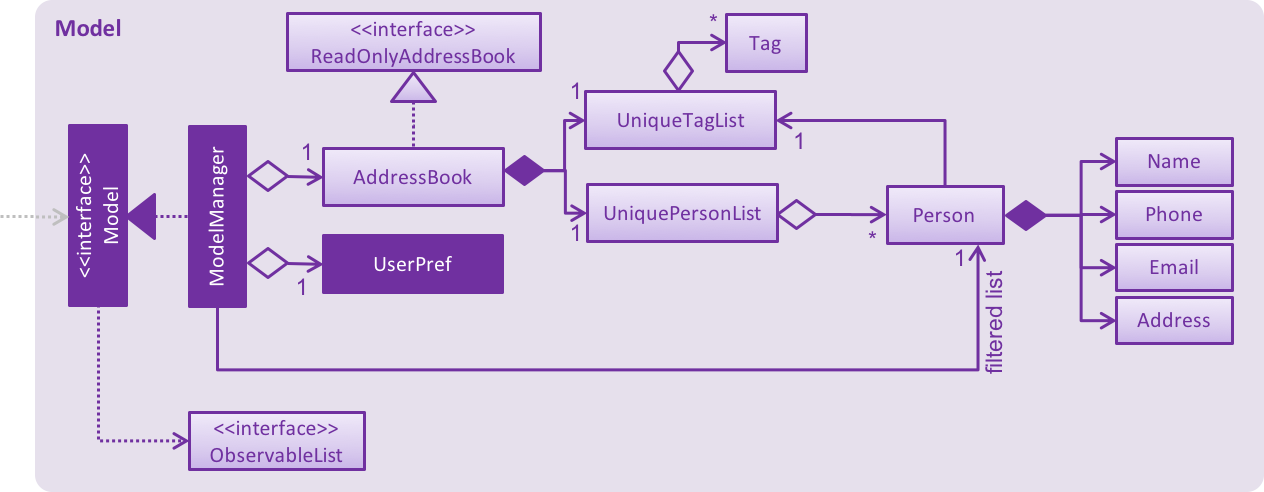
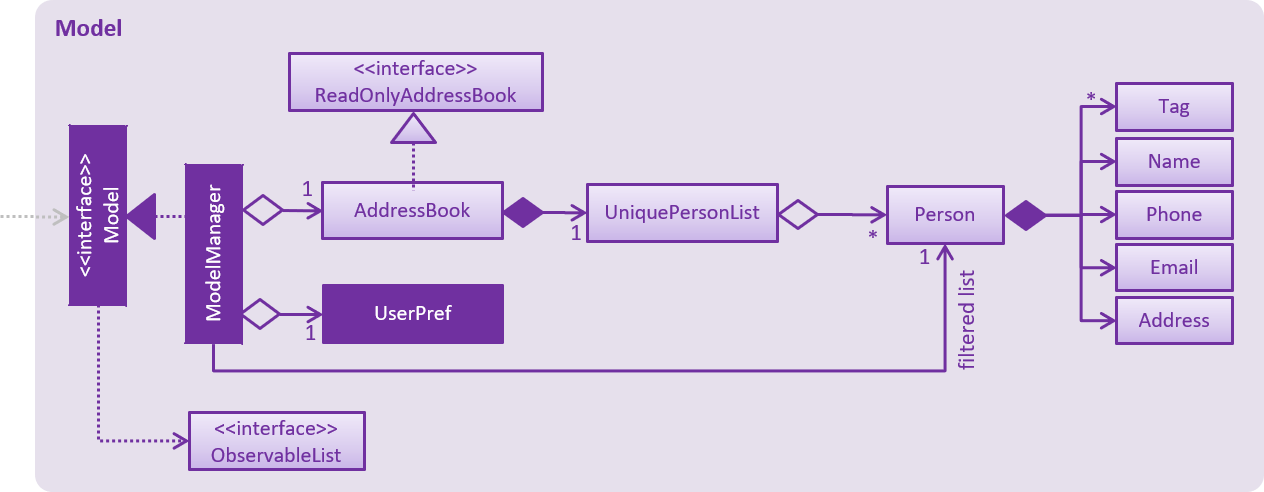
Rebuild pages at 285f0a1bf97537dffbcdcd2ec604edfa84ba4c5f

diff --git a/DeveloperGuide.html b/DeveloperGuide.html
@@ -523,6 +523,20 @@ Note how the event is propagated through the <code>EventsCenter</code> to the <c
 </li>
 </ul>
 </div>
+<div class="admonitionblock note">
+<table>
+<tr>
+<td class="icon">
+<i class="fa icon-note" title="Note"></i>
+</td>
+<td class="content">
+As a more OOP model, we can store a <code>Tag</code> list in <code>Address Book</code>, which <code>Person</code> can reference. This would allow <code>Address Book</code> to only require one <code>Tag</code> object per unique <code>Tag</code>, instead of each <code>Person</code> needing their own <code>Tag</code> object. An example of how such a model may look like is given below.<br>
+<br>
+<span class="image"><img src="images/ModelClassBetterOopDiagram.png" alt="ModelClassBetterOopDiagram" width="800"></span>
+</td>
+</tr>
+</table>
+</div>
 </div>
 <div class="sect2">
 <h3 id="Design-Storage"><a class="link" href="#Design-Storage">2.5. Storage component</a></h3>
@@ -1294,16 +1308,6 @@ Do take a look at <a href="#Design-Model">Section 2.4, &#8220;Model component&#8
 </li>
 <li>
 <p>See this <a href="https://github.com/se-edu/addressbook-level4/pull/790">PR</a> for the full solution.</p>
-<div class="ulist">
-<ul>
-<li>
-<p>The current codebase has a flaw in tags management. Tags no longer in use by anyone may still exist on the <a href="https://github.com/se-edu/addressbook-level4/tree/master/src/main/java/seedu/address/model/AddressBook.java"><code>AddressBook</code></a>. This may cause some tests to fail. See issue  <a href="https://github.com/se-edu/addressbook-level4/issues/753"><code>#753</code></a> for more information about this flaw.</p>
-</li>
-<li>
-<p>The solution PR has a temporary fix for the flaw mentioned above in its first commit.</p>
-</li>
-</ul>
-</div>
 </li>
 </ul>
 </div>
@@ -2224,7 +2228,7 @@ Expected: Similar to previous.</p>
 </div>
 <div id="footer">
 <div id="footer-text">
-Last updated 2018-04-03 03:12:50 UTC
+Last updated 2018-04-04 14:31:22 UTC
 </div>
 </div>
 </body>

diff --git a/LearningOutcomes.html b/LearningOutcomes.html
@@ -561,7 +561,7 @@ class gives some examples of how to use <em>Equivalence Partitions</em>, <em>Bou
 </div>
 <div id="footer">
 <div id="footer-text">
-Last updated 2018-04-03 03:12:50 UTC
+Last updated 2018-04-04 14:31:22 UTC
 </div>
 </div>
 </body>

diff --git a/UsingCoveralls.html b/UsingCoveralls.html
@@ -115,7 +115,7 @@ If you have not set up Travis CI, see <a href="UsingTravis.html">UsingTravis.ado
 </div>
 <div id="footer">
 <div id="footer-text">
-Last updated 2018-04-03 03:12:50 UTC
+Last updated 2018-04-04 14:31:22 UTC
 </div>
 </div>
 </body>

diff --git a/UsingGradle.html b/UsingGradle.html
@@ -261,7 +261,7 @@ See <code>build.gradle</code> &#8594; <code>allprojects</code> &#8594; <code>dep
 </div>
 <div id="footer">
 <div id="footer-text">
-Last updated 2018-04-03 03:12:50 UTC
+Last updated 2018-04-04 14:31:22 UTC
 </div>
 </div>
 </body>

diff --git a/UsingNetlify.html b/UsingNetlify.html
@@ -142,7 +142,7 @@ The publish directory is the directory in which the built HTML documentation res
 </div>
 <div id="footer">
 <div id="footer-text">
-Last updated 2018-04-03 03:12:50 UTC
+Last updated 2018-04-04 14:31:22 UTC
 </div>
 </div>
 </body>

diff --git a/team/johndoe.html b/team/johndoe.html
@@ -561,7 +561,7 @@ If the <code>redoStack</code> is empty, then there are no other commands left to
 </div>
 <div id="footer">
 <div id="footer-text">
-Last updated 2018-04-03 03:12:50 UTC
+Last updated 2018-04-04 14:31:22 UTC
 </div>
 </div>
 </body>

diff --git a/UsingTravis.html b/UsingTravis.html
@@ -299,7 +299,7 @@ Suggested change: Remove the codacy badge from <code>README</code>.</p>
 </div>
 <div id="footer">
 <div id="footer-text">
-Last updated 2018-04-03 03:12:50 UTC
+Last updated 2018-04-04 14:31:22 UTC
 </div>
 </div>
 </body>

diff --git a/UsingCheckstyle.html b/UsingCheckstyle.html
@@ -103,7 +103,7 @@ Restart the IDE to complete the installation.</p>
 </div>
 <div id="footer">
 <div id="footer-text">
-Last updated 2018-04-03 03:12:50 UTC
+Last updated 2018-04-04 14:31:22 UTC
 </div>
 </div>
 </body>

diff --git a/TestDocument.html b/TestDocument.html
@@ -178,7 +178,7 @@ This should be on a new line.</p>
 </div>
 <div id="footer">
 <div id="footer-text">
-Last updated 2018-04-03 03:12:50 UTC
+Last updated 2018-04-04 14:31:22 UTC
 </div>
 </div>
 </body>

diff --git a/UserGuide.html b/UserGuide.html
@@ -538,7 +538,7 @@ e.g.<code>select 2</code></p>
 </div>
 <div id="footer">
 <div id="footer-text">
-Last updated 2018-04-03 03:12:50 UTC
+Last updated 2018-04-04 14:31:22 UTC
 </div>
 </div>
 </body>

diff --git a/AboutUs.html b/AboutUs.html
@@ -112,7 +112,7 @@ Responsibilities: UI</p>
 </div>
 <div id="footer">
 <div id="footer-text">
-Last updated 2018-04-03 03:12:50 UTC
+Last updated 2018-04-04 14:31:22 UTC
 </div>
 </div>
 </body>

diff --git a/UsingAppVeyor.html b/UsingAppVeyor.html
@@ -174,7 +174,7 @@ grant access:</p>
 </div>
 <div id="footer">
 <div id="footer-text">
-Last updated 2018-04-03 03:12:50 UTC
+Last updated 2018-04-04 14:31:22 UTC
 </div>
 </div>
 </body>
